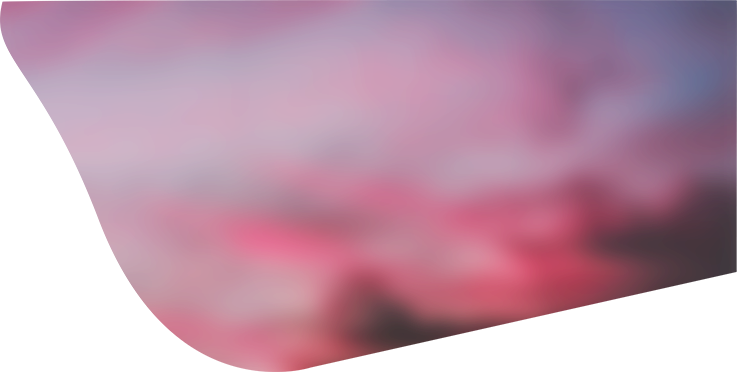
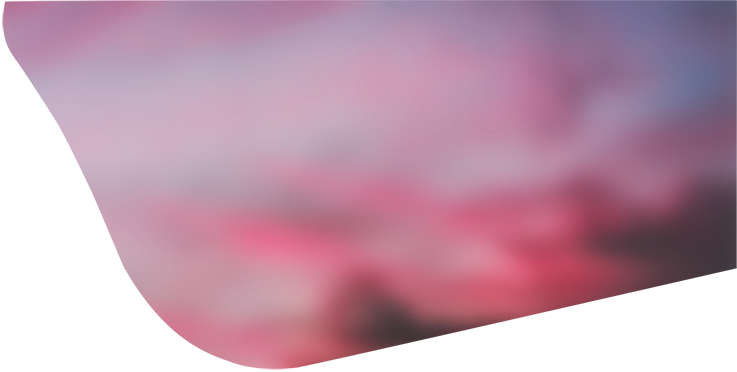
fix 404 and category.js scrollToTop function which was not imported datePublish in categoryContainer changed to fixed one landpage path both made better: the light made sharper border and the dark one made brighter subCategory sitemap for google fixed the url which was not included the full url whic

diff --git a/frontend/src/components/category.js b/frontend/src/components/category.js
@@ -6,7 +6,7 @@ import PageTravel from './pageTravel'
 import HotHeader from './hotHeader'
 import LoadingScreen from './loadingScreen'
 
-import { log, replaceFunction, viewsFormat } from './base'
+import { log, replaceFunction, viewsFormat, datePublishHandler } from './base'
 
 const Category = (props) => {
     const [pageTravel, setPageTravel] = useState([])
@@ -69,7 +69,7 @@ const Category = (props) => {
                                     <img src={`${category.thumbnail}`} alt={`${category.subCategory}} | ${category.title}`} loading='lazy' />
                                 </div>
                                 {/* <div className="quizContainer__views">{viewsFormat(category.views)}</div> */}
-                                <div className="quizContainer__date">{ datePublishHandler(category.publish) }</div>
+                                <div className="quizContainer__date tx-al-c">{datePublishHandler(category.publish)}</div>
                                 <span className="quizContainer__title quizContainer__title__noViews flex">
                                     { category.title }
                                 </span>
@@ -92,30 +92,6 @@ const Category = (props) => {
         }
         setLoadState(true)
     }, [])
-
-    const datePublishHandler = (publishFullDate) => {
-        if (publishFullDate) {
-            const publishDay = parseInt(publishFullDate.slice(8, 10))
-            const publishMonth = parseInt(publishFullDate.slice(5, 7))
-            const publishYear = parseInt(publishFullDate.slice(1, 4)) + 2000
-
-            const currentDay = new Date().getDay() + 1
-            const currentMonth = new Date().getMonth() + 1
-            const currentYear = new Date().getFullYear()
-
-            if (currentYear > publishYear) {
-                const totalYearsAfterPublishingTheQuiz = currentYear - publishYear
-                return `${totalYearsAfterPublishingTheQuiz} سال پیش`
-            } else if (currentMonth > publishMonth){
-                const totalMonthsAfterPublishingTheQuiz = currentMonth - publishMonth
-                return `${totalMonthsAfterPublishingTheQuiz} ماه پیش`
-            } else if (currentDay > publishDay) {
-                const totalDaysAfterPublishingTheQuiz = currentDay - publishDay
-                return `${totalDaysAfterPublishingTheQuiz} روز پیش`
-            }
-        }
-        return publishFullDate
-    }
 
     return (
         <React.Fragment>

diff --git a/frontend/src/404.js b/frontend/src/404.js
@@ -8,6 +8,7 @@ import {
 
 import PageNotFound_404 from './components/pageNotFound_404'
 import HotFooter from './components/hotFooter'
+import ScrollToTop from './components/scrollToTop'
 
 const CategoryApp = () => {
     return (

diff --git a/frontend/src/Category.js b/frontend/src/Category.js
@@ -9,8 +9,7 @@ import {
 
 import HotFooter from './components/hotFooter'
 import Category from './components/category'
-
-
+import ScrollToTop from './components/scrollToTop'
 
 const CategoryApp = () => {
     return (

diff --git a/quizzland/sitemaps.py b/quizzland/sitemaps.py
@@ -13,24 +13,41 @@ class QuizSitemap(Sitemap):
     def items(self):
         return Quizzes.objects.all()
 
-    def lastmod(self, obj):
-        return obj.publish
+    def lastmod(self, item):
+        return item.publish
 
-    def location(self,obj):
-        title = titleConverterWithSpilt(obj.title, ' ', '-')
+    def location(self, item):
+        title = titleConverterWithSpilt(item.title, ' ', '-')
         return f'/quiz/{title}'
 
 class SubCategorySitemap(Sitemap):
     changefreq = "monthly"
-    priority = 0.8
+    priority = 0.9
     protocol = 'https'
 
     def items(self):
         return SubCategories.objects.all()
 
-    def lastmod(self, obj):
-        return obj.publish
+    def lastmod(self, item):
+        return item.publish
 
-    def location(self,obj):
-        title = titleConverterWithSpilt(obj.subCategory, ' ', '-')
-        return f'/category/{obj.category}/{title}'
+    def location(self, item):
+        subCategory = titleConverterWithSpilt(item.subCategory, ' ', '-')
+        title = titleConverterWithSpilt(item.title, ' ', '-')
+        return f'/category/{item.category}/{subCategory}?t={title}'
+
+categoryTitle = {
+    'کوییز هایی درمورد سلبریتی ها':'celebrity',
+    'کوییز هایی درمورد فیلم و سریال':'movie-series'
+}
+
+class CategorySitemap(Sitemap):
+    changefreq = "monthly"
+    priority = 0.9
+    protocol = 'https'
+
+    def items(self):
+        return ['کوییز هایی درمورد سلبریتی ها' ,'کوییز هایی درمورد فیلم و سریال']
+
+    def location(self, item):
+        return f'/category/{categoryTitle[item]}'

diff --git a/quizzland/urls.py b/quizzland/urls.py
@@ -7,7 +7,8 @@ from .sitemaps import *
 
 sitemaps = {
     'quiz':QuizSitemap,
-    'subCategory':SubCategorySitemap
+    'subCategory':SubCategorySitemap,
+    'category':CategorySitemap
 }
 
 router = routers.DefaultRouter()
